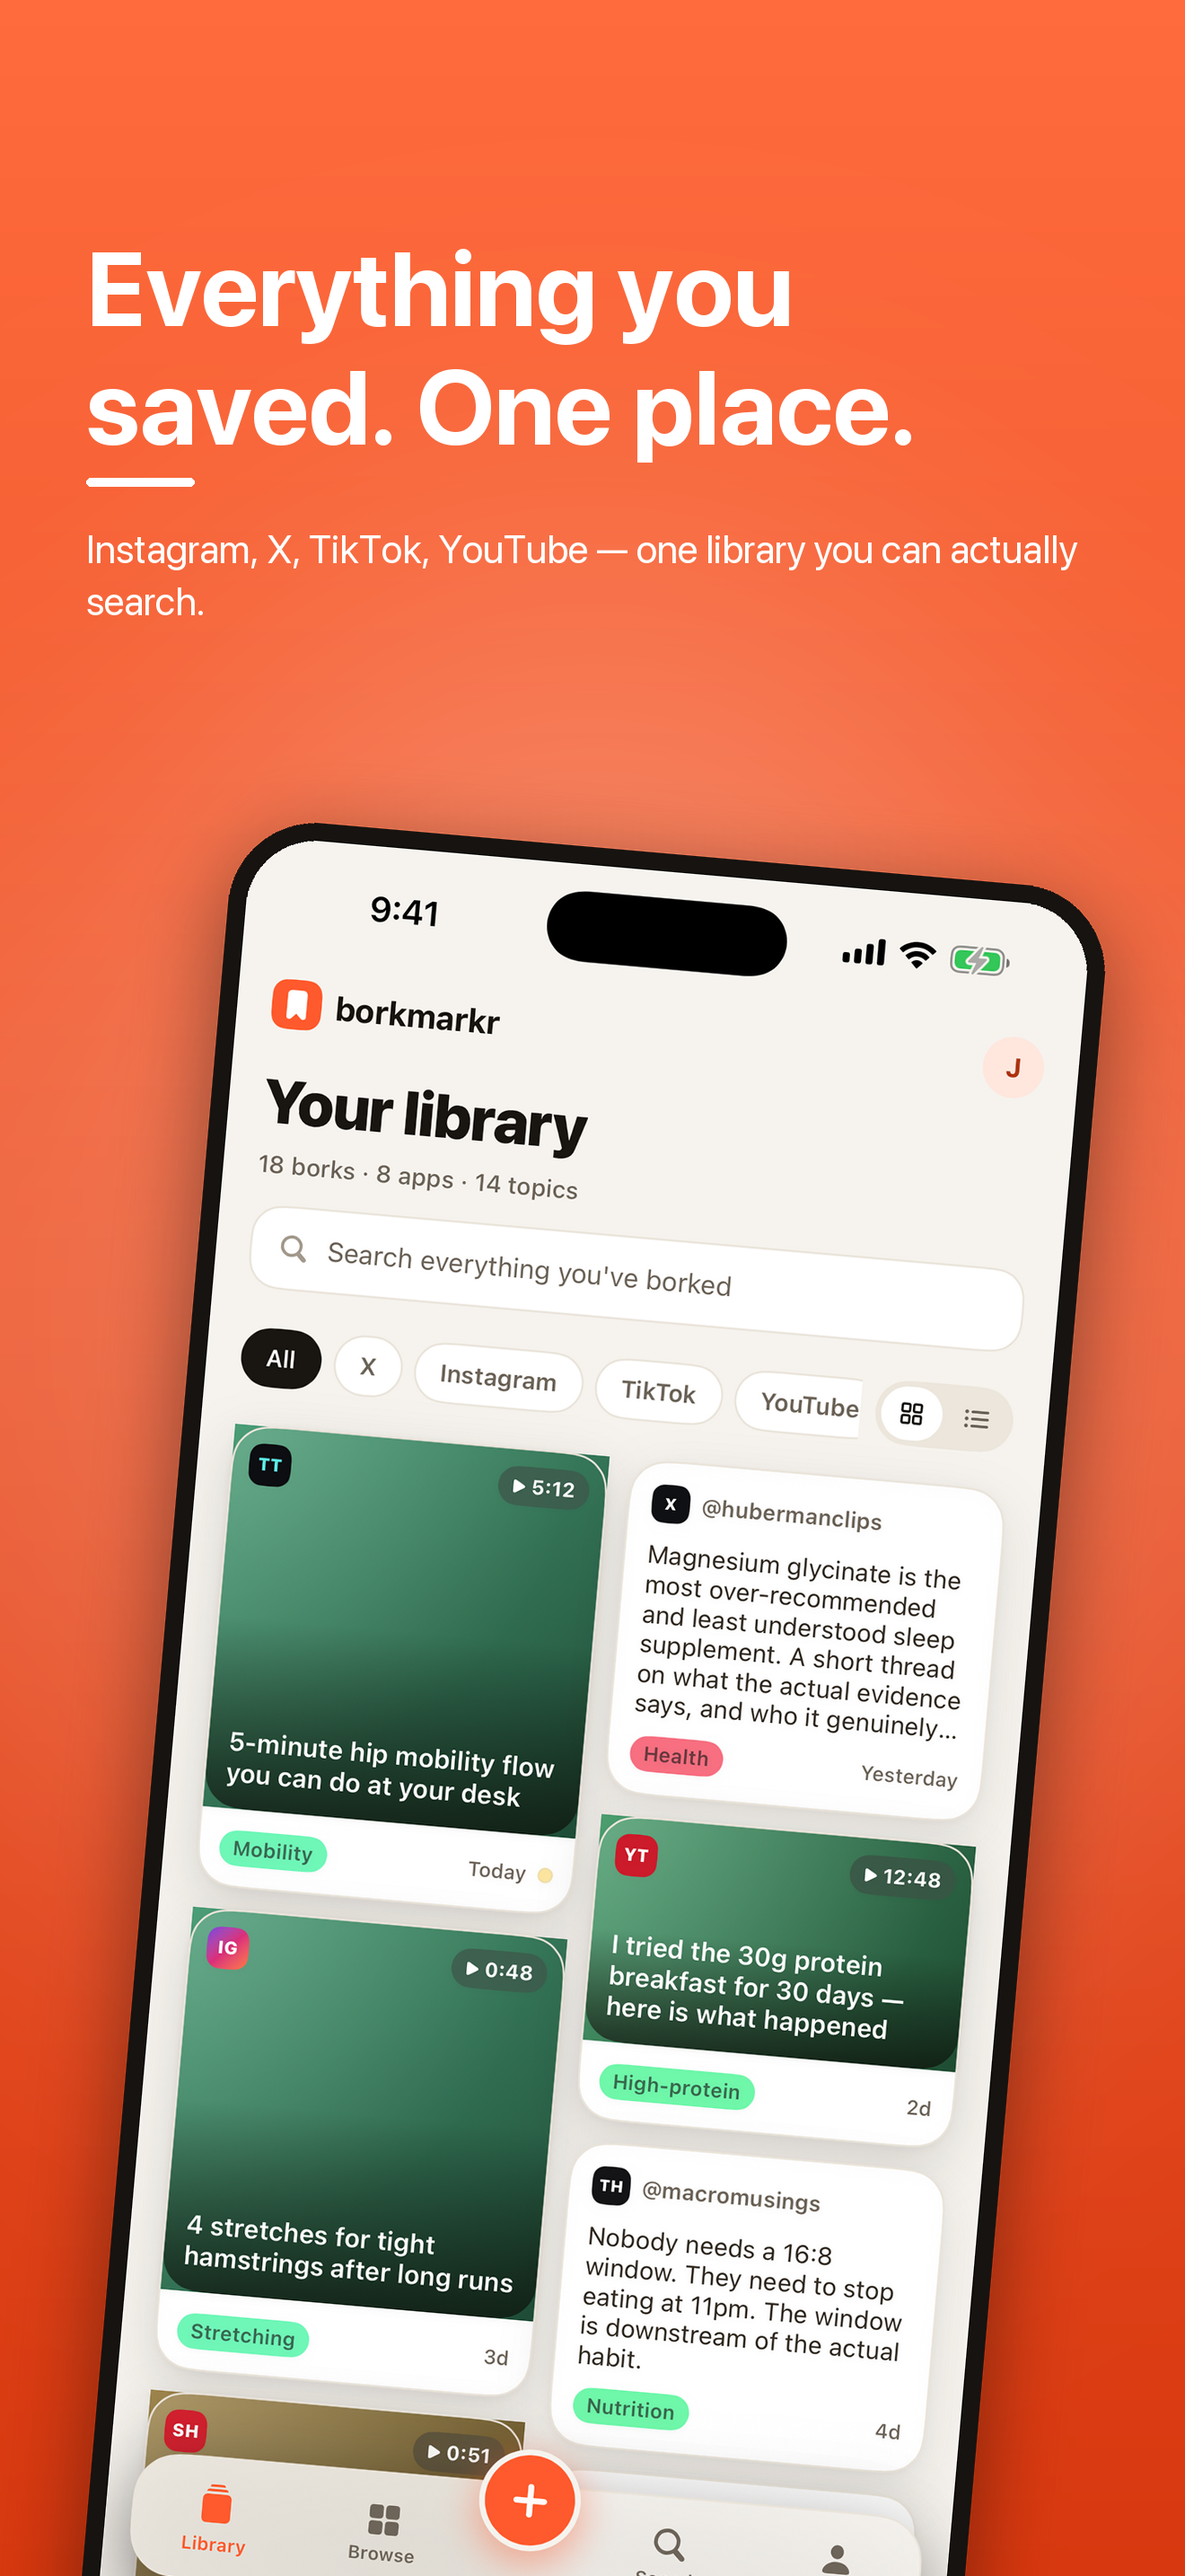
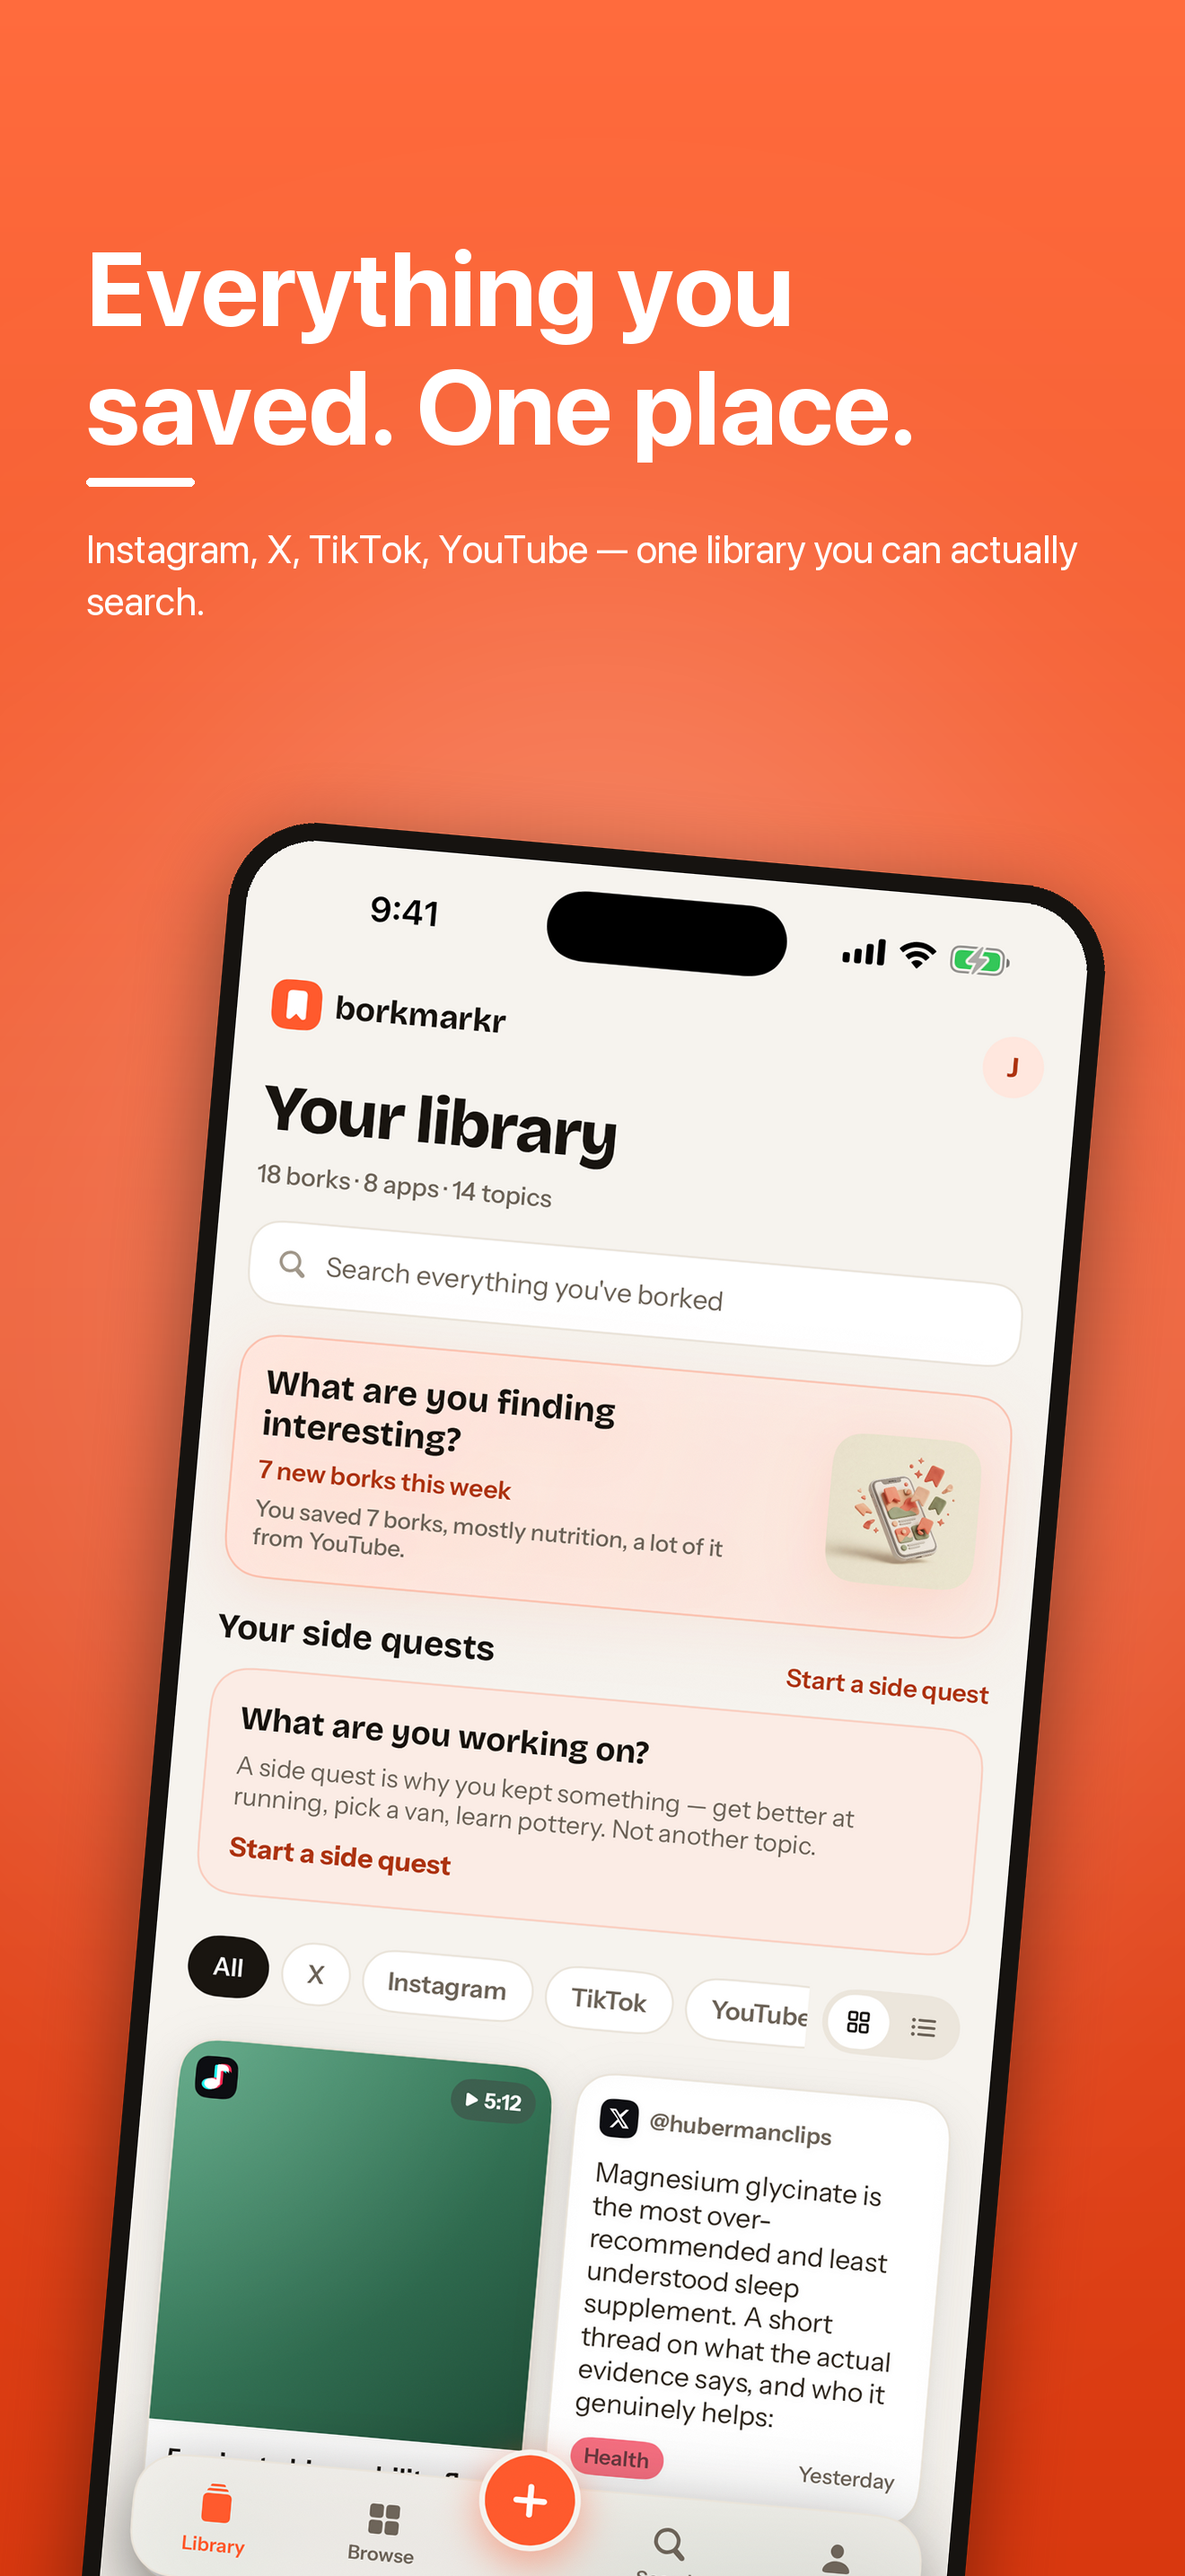
Regenerate App Store screenshots against the current UI
The three panels in Marketing/screenshots predated the library redesign,
side quests and the typeface change, so they no longer matched the build
— a legitimate rejection reason.

- capture_screenshots.sh: OUT is now overridable like SIM and DD, so the
  captures can land somewhere simctl is allowed to write and be copied in.
- APPSTORE.md: the Screenshots section described raw phone captures; it now
  describes the designed panels and how to regenerate them.

Claude-Session: https://claude.ai/code/session_01WmvqS8shhmPGFkGLHjB1yo

Changed region(s): [[0.1242, 0.3724, 0.8697, 1.0], [0.0932, 0.993, 0.1553, 1.0]]

diff --git a/APPSTORE.md b/APPSTORE.md
@@ -238,20 +238,30 @@ notes — "no account required" already covers the requirement on its own.
 
 ## Screenshots
 
-Required: 6.9" iPhone — **1320 × 2868**, which is exactly what your iPhone 17
-Pro Max produces. So: screenshot on your phone (side button + volume up),
-AirDrop them to the Mac, upload. No editing, no mockup tool, no resizing.
+Required size: 6.9" iPhone — **1320 × 2868**. The finished files are in
+`Marketing/screenshots/` (`01-library.png`, `02-browse.png`, `03-search.png`),
+ready to upload as-is: no resizing.
+
+They are *designed* screenshots — a real capture of the app inside a phone
+frame on a coloured panel with a headline — which is what nearly every top
+listing does and is allowed, because the UI shown is genuine. Apple's rule is
+that the screenshots show the app as it actually is; it is not that they must
+be raw captures.
+
+**To regenerate after a UI change** (both scripts are in the repo):
+
+```
+bash Scripts/capture_screenshots.sh        # builds for the iPhone 17 Pro Max simulator,
+                                           # seeds demo data, sets 9:41, captures to Marketing/captures/
+python3 Scripts/make_screenshots.py        # composes the panels into Marketing/screenshots/ (needs Pillow)
+```
+
+The captures use a DEBUG-only seed (`-seed` launch argument), so nothing
+personal is ever on screen. The panel headlines live at the top of
+`make_screenshots.py` if you want different copy.
 
 Three practical notes:
 - Apple accepts as few as one, but 3–5 is normal. You can reorder them later.
-- Check nothing personal is on screen — a real saved link with your name, or a
-  notification banner mid-screenshot.
-- Use a library with real content. An empty app is a bad first impression, and
-  the first screenshot is most of the decision.
-
-Worth capturing, in this order:
-1. **Library** with a full masonry feed — the visual signature
-2. **Browse → Topics** showing the coloured topic tiles
-3. **Search** with results
-4. **A saved item** open, showing the note and "Open original"
-5. **Import** screen — the "you already saved thousands of things" idea
+- Upload in the numbered order — the first screenshot is most of the decision.
+- If you change the Library layout, re-run both scripts before submitting; a
+  screenshot that doesn't match the build is a legitimate rejection reason.
